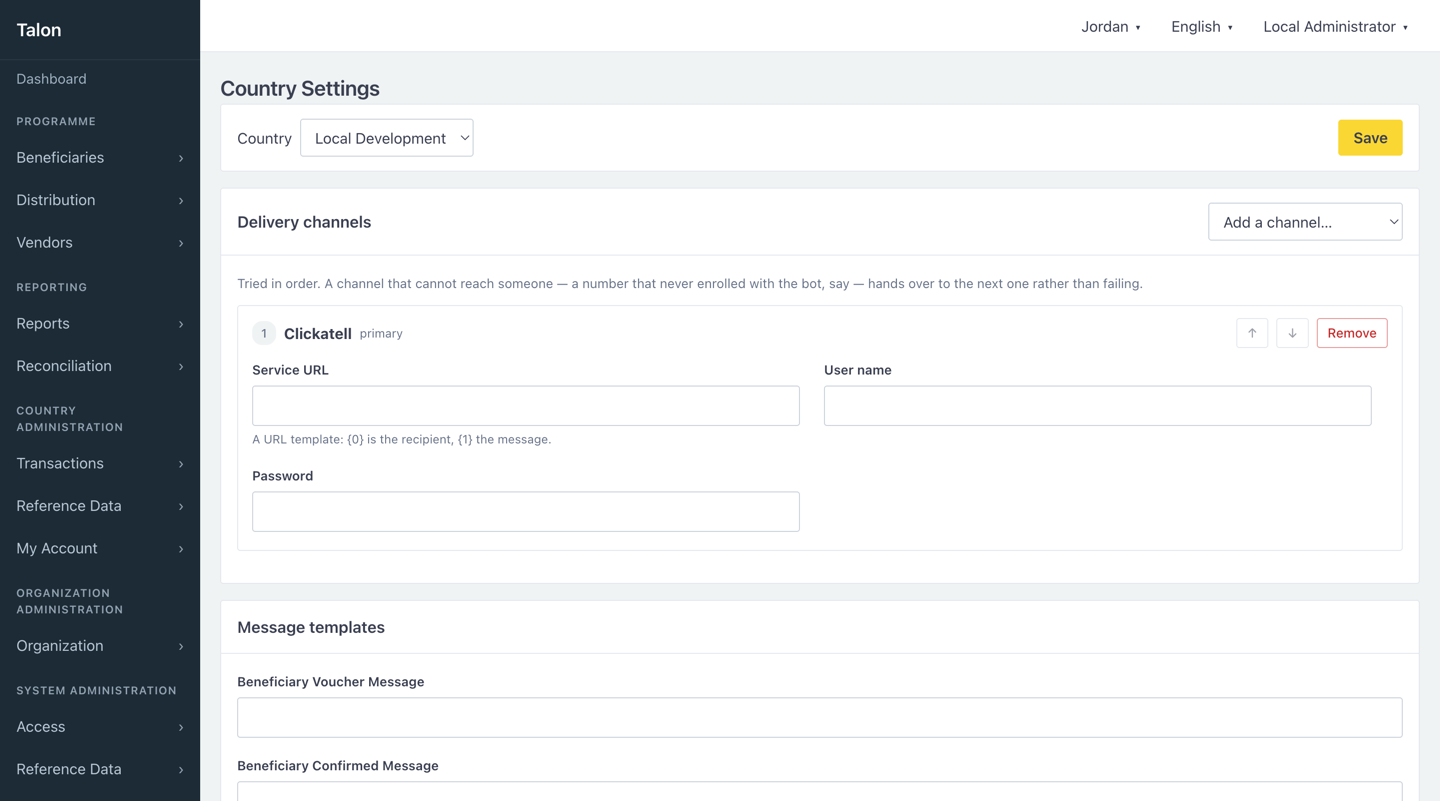
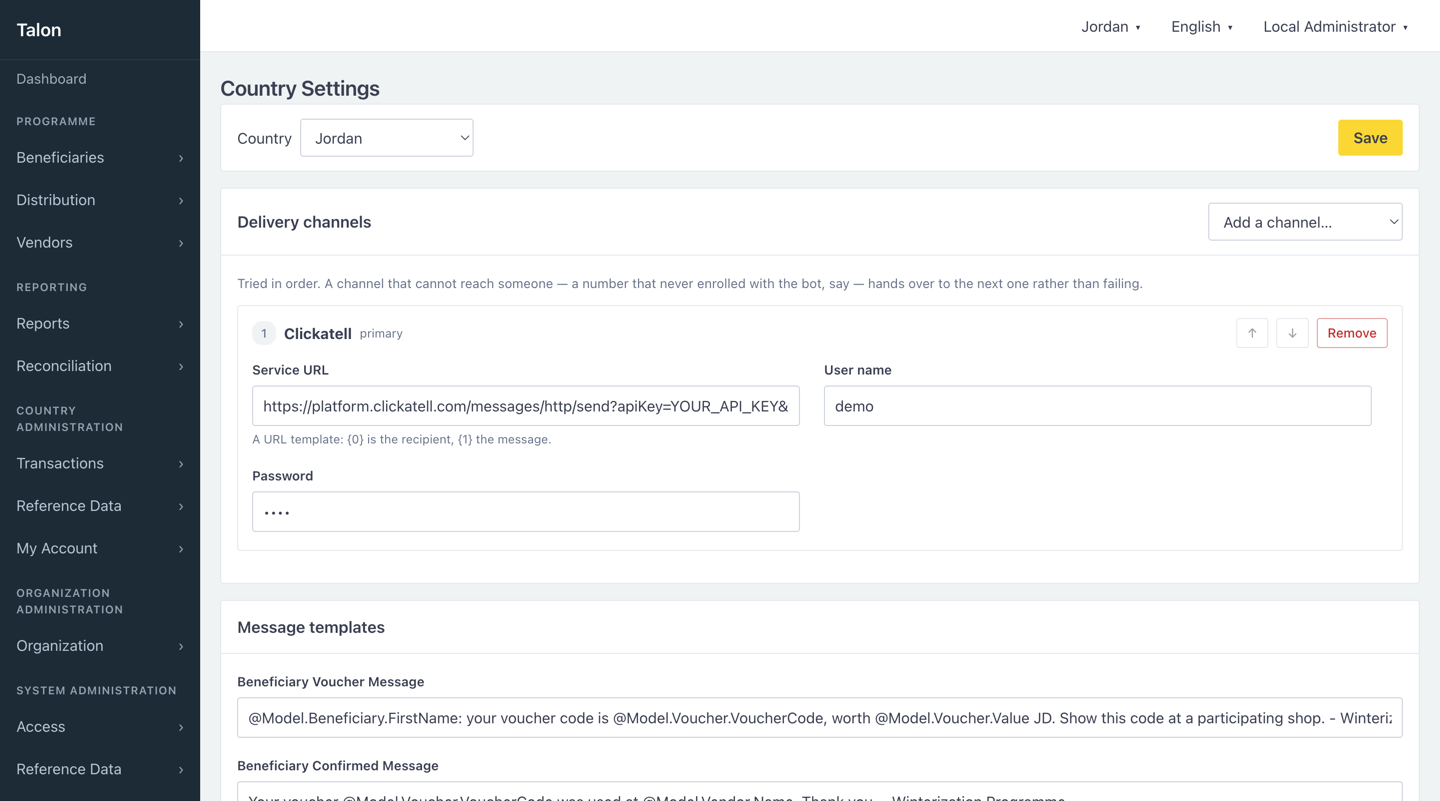
Document how to write message templates, and stop shipping a broken one
The walkthrough's delivery log showed thirteen messages, every one failed with
"The message body is empty" — the state a country is in until somebody writes
the templates, because Talon ships no default wording and nothing says so. The
screenshot documented the product not working.

Both screens are recaptured against the walkthrough data with the templates
filled in and a stub gateway standing in for Clickatell. The vouchers were
re-notified through the product's own ResendSMS endpoint rather than by writing
rows, so the codes in the log are the codes already issued — including the one
the walkthrough text quotes.

The new Messaging section covers the substitution syntax, every template and
when it fires, which records each one carries, a worked set, and the message
length, attribution and data-minimisation points worth deciding before a
distribution rather than after.

The trap it leads with is that an expression naming a field that does not exist
renders as nothing and the message still sends: @Model.Voucher.Code delivers
"Your voucher code is ." to every household and the log records it as sent. The
same goes for reaching through a relationship the workflow did not load. Both
are pinned in MessageTemplateTests, along with the worked examples themselves,
so a documented template that silently drops its voucher code fails the build.

Also corrects the configuration guide, which sent people to Country
Administration for a screen that lives under Organization Administration.

diff --git a/TalonAdmin.Tests/MessageTemplateTests.cs b/TalonAdmin.Tests/MessageTemplateTests.cs
@@ -1,0 +1,120 @@
+using TalonAdmin.Messaging;
+using TalonAdmin.Models.Vouchers;
+
+namespace TalonAdmin.Tests;
+
+/// <summary>
+/// The message-template renderer, and the worked examples the documentation tells people to copy.
+/// </summary>
+/// <remarks>
+/// Templates are the only part of the product an operator authors, they are written once before a
+/// distribution, and a mistake in one is invisible: an expression naming a field that is not there
+/// renders as nothing and the message still sends. So the trap is pinned here deliberately rather
+/// than left as an implementation detail, and the examples in <c>docs/MESSAGING.md</c> are rendered
+/// rather than trusted — a documented template that silently drops its voucher code would be worse
+/// than no documentation at all.
+/// </remarks>
+public class MessageTemplateTests
+{
+    private static object IssueModel() => new
+    {
+        Voucher = new Voucher { VoucherCode = "482913", Value = 50m },
+        Vendor = new Vendor { Name = "Al Mahatta Grocery" },
+        Beneficiary = new Beneficiary { FirstName = "Tariq", LastName = "Jaber" }
+    };
+
+    [Fact]
+    public void The_documented_voucher_message_renders_its_code_and_value()
+    {
+        var body = VoucherNotifications.Render(
+            "@Model.Beneficiary.FirstName: your voucher code is @Model.Voucher.VoucherCode, " +
+            "worth @Model.Voucher.Value. Show this code at a participating shop.",
+            IssueModel());
+
+        Assert.Equal(
+            "Tariq: your voucher code is 482913, worth 50. Show this code at a participating shop.",
+            body);
+    }
+
+    [Fact]
+    public void The_documented_confirmation_names_the_vendor()
+    {
+        var body = VoucherNotifications.Render(
+            "Your voucher @Model.Voucher.VoucherCode was used at @Model.Vendor.Name. Thank you.",
+            IssueModel());
+
+        Assert.Equal("Your voucher 482913 was used at Al Mahatta Grocery. Thank you.", body);
+    }
+
+    [Fact]
+    public void Beneficiary_Name_joins_the_two_parts()
+    {
+        Assert.Equal("Tariq Jaber", VoucherNotifications.Render("@Model.Beneficiary.Name", IssueModel()));
+    }
+
+    [Fact]
+    public void The_parenthesised_form_ends_the_expression_where_the_bracket_does()
+    {
+        // Without the brackets the trailing text would be read as part of the field name.
+        Assert.Equal(
+            "Code 482913.",
+            VoucherNotifications.Render("Code @(Model.Voucher.VoucherCode).", IssueModel()));
+    }
+
+    [Fact]
+    public void A_misspelled_field_renders_as_nothing_rather_than_failing()
+    {
+        // The documented trap: the field is VoucherCode, not Code. Nothing rejects this template,
+        // and every household gets a message with no code in it.
+        Assert.Equal(
+            "Your voucher code is .",
+            VoucherNotifications.Render("Your voucher code is @Model.Voucher.Code.", IssueModel()));
+    }
+
+    [Fact]
+    public void A_relationship_the_workflow_did_not_load_renders_as_nothing()
+    {
+        // Why the documentation says to stay on the record's own fields: lazy loading is off, so a
+        // navigation the query did not Include is simply null by the time a template sees it.
+        Assert.Equal(
+            "Programme: .",
+            VoucherNotifications.Render("Programme: @Model.Voucher.Distribution.Title.", IssueModel()));
+    }
+
+    [Fact]
+    public void A_record_the_message_does_not_carry_renders_as_nothing()
+    {
+        // The shape Invalid Voucher Message is sent with: no voucher, no beneficiary.
+        var model = new { Voucher = new { }, Vendor = new Vendor { Name = "Al Mahatta Grocery" }, Beneficiary = new { }, VoucherCode = "999999" };
+
+        Assert.Equal(
+            "Hello , code  was not recognised.",
+            VoucherNotifications.Render(
+                "Hello @Model.Beneficiary.FirstName, code @Model.Voucher.VoucherCode was not recognised.",
+                model));
+
+        // Which is why that template has to reach for the code the vendor typed instead.
+        Assert.Equal(
+            "Code 999999 was not recognised.",
+            VoucherNotifications.Render("Code @Model.VoucherCode was not recognised.", model));
+    }
+
+    [Theory]
+    [InlineData(null)]
+    [InlineData("")]
+    public void An_unwritten_template_stays_empty_so_the_queue_can_fail_it(string? template)
+    {
+        // An empty body is what OutboundMessageQueue turns into a visible failure, rather than
+        // sending a blank text message.
+        Assert.True(string.IsNullOrEmpty(VoucherNotifications.Render(template, IssueModel())));
+    }
+
+    [Fact]
+    public void Text_around_the_expressions_is_left_alone()
+    {
+        // There is no Razor here: an @ that is not one of these expressions is just a character.
+        Assert.Equal(
+            "Questions? mail help@example.org — 100% free.",
+            VoucherNotifications.Render("Questions? mail help@example.org — 100% free.", IssueModel()));
+    }
+}

diff --git a/docs/MESSAGING.md b/docs/MESSAGING.md
@@ -234,6 +234,121 @@ curl "https://api.telegram.org/bot<TOKEN>/setWebhook" \
 Telegram only calls HTTPS URLs, and it retries an update until it gets a 200, which is why the
 endpoint answers 200 even for updates it ignores.
 
+## Message templates
+
+Talon ships **no default wording**. Every message it sends is a template you write, stored per
+country under **Organization Administration → Country Settings**. Until you write them, a
+distribution enqueues one message per household and fails every one with *"The message body is
+empty"* — the codes are issued and valid, but nobody is told what they are.
+
+Write the templates before the first distribution, not after.
+
+### The substitution syntax
+
+A template is plain text with `@Model.Something.Field` placeholders, which are replaced with values
+from the record the message is about. `@(Model.Something.Field)` works too, and is the form to use
+when the placeholder is followed by a letter or a dot that would otherwise be read as part of the
+name.
+
+```
+Your voucher code is @Model.Voucher.VoucherCode for @Model.Voucher.Value JOD.
+```
+
+This is a deliberately small substitution, not Razor. There are no conditionals, no loops, no
+formatting specifiers and no method calls — only field lookups. Anything else is left in the message
+exactly as you typed it.
+
+{: .caution }
+> **A placeholder that names a field which does not exist renders as nothing, and the message still
+> sends.** `@Model.Voucher.Code` is not a field — the field is `VoucherCode` — so that template
+> delivers "Your voucher code is ." to every household, and the delivery log records it as sent.
+> Nothing warns you. Send yourself a test message and read it before you run a distribution.
+
+### What you can put in each message
+
+| Template | Sent to | When |
+| --- | --- | --- |
+| `Beneficiary Voucher Message` | Beneficiary | A voucher is issued. **This is the one that carries the code** — if you write only one, write this. |
+| `Beneficiary Confirmed Message` | Beneficiary | Their voucher was redeemed |
+| `Vendor Confirmed Message` | Vendor | They redeemed a voucher, and on a repeat of the same code inside the grace window |
+| `Beneficiary Cancelled Voucher Message` | Beneficiary | Their voucher was cancelled |
+| `Vendor Cancelled Message` | Vendor | A voucher they held was cancelled |
+| `Beneficiary Already Used Message` | Beneficiary | A code already redeemed was presented again |
+| `Vendor Already Used Message` | Vendor | As above |
+| `Beneficiary Cannot Accept Message` | Beneficiary | The vendor is not of a type this voucher category allows |
+| `Vendor Cannot Accept Message` | Vendor | As above |
+| `Wrong National Id Message` | Vendor | The identifier given with the code did not match. The interface labels this one **Wrong Personal Identifier Message** — the stored name is older than the rename, and countries have already filled it in under the old one |
+| `Invalid Voucher Message` | Vendor | The code is not a voucher at all |
+
+The fields available are the ones on the records themselves. The useful ones:
+
+| Placeholder | Value |
+| --- | --- |
+| `@Model.Voucher.VoucherCode` | The redemption code |
+| `@Model.Voucher.Value` | The voucher's value, unformatted |
+| `@Model.Beneficiary.Name` | First and last name together |
+| `@Model.Beneficiary.FirstName` | Given name alone — usually the better choice in a text |
+| `@Model.Beneficiary.MobileNumber` | Their number |
+| `@Model.Vendor.Name` | The vendor's trading name |
+| `@Model.Vendor.MobileNumber` | The vendor's number |
+
+Stick to fields on the three records themselves. Following a relationship out of them — the
+distribution a voucher belongs to, the location a beneficiary lives in — reaches for something the
+workflow did not load, and an unloaded relationship renders as nothing in exactly the same silent
+way a misspelling does.
+
+Not every message carries every record, either. `Invalid Voucher Message` and
+`Wrong National Id Message` fire before a beneficiary is known, so `@Model.Beneficiary.…` is empty
+in both, and a template that opens by greeting them produces a message that starts with a blank.
+`Invalid Voucher Message` has no voucher either — by definition, the code matched nothing — so the
+code the vendor actually typed is at `@Model.VoucherCode`, not `@Model.Voucher.VoucherCode`.
+
+### A worked set
+
+Short, unambiguous, and useful to someone holding an old handset:
+
+```
+Beneficiary Voucher Message
+  @Model.Beneficiary.FirstName: your voucher code is @Model.Voucher.VoucherCode,
+  worth @Model.Voucher.Value. Show this code at a participating shop.
+
+Beneficiary Confirmed Message
+  Your voucher @Model.Voucher.VoucherCode was used at @Model.Vendor.Name. Thank you.
+
+Vendor Confirmed Message
+  Accepted: @Model.Voucher.VoucherCode for @Model.Voucher.Value.
+
+Beneficiary Already Used Message
+  Voucher @Model.Voucher.VoucherCode has already been used. Contact the programme office.
+
+Invalid Voucher Message
+  That code was not recognised. Please check it and try again.
+```
+
+### Things worth getting right
+
+**Keep it inside one SMS.** A GSM-7 message is 160 characters; a message containing any Arabic
+character is UCS-2 and drops to **70**. Longer messages are split, and every gateway charges per
+part. Since the placeholder expands at send time, a template that looks short can cross the boundary
+once a long name is substituted — check with your longest name, not your shortest.
+
+**Say who is writing.** A code arriving from an unknown number is indistinguishable from a scam.
+Name the programme or organisation in the message that carries the code.
+
+**Put in only what the message needs.** These arrive on shared and borrowed handsets, and a text
+message sits in the inbox afterwards. The code and the amount are needed; a personal identifier, a
+full name, a location or a household size generally is not. Never place `@Model.Beneficiary.PIN` or
+`@Model.Vendor.Password` in a template — they are on the record, so they will render.
+
+**Write them in the language people read.** Templates are per country and are stored as you type
+them, so they can be written in any script — this is separate from the interface language, which
+only affects staff screens. Right-to-left text is stored and delivered unchanged.
+
+**An organisation can override a country's wording.** If the same country is run by more than one
+organisation, a template set on the organisation's own country record wins over the country-wide
+one; blank there falls back. That is the mechanism to use when two programmes in one country need to
+identify themselves differently.
+
 ## Inbound
 
 Redeeming a voucher is a message going the other way, and it works from any channel.

diff --git a/docs/WALKTHROUGH.md b/docs/WALKTHROUGH.md
@@ -148,10 +148,16 @@ the Telegram bot go through the same rules. How messages travel is a per-country
 country holds an ordered chain rather than a single channel, so it can reach enrolled recipients on a
 free channel and text everyone else.
 
-![Delivery channels](screenshots/16-country-settings.png)
+The same screen holds the wording of every message Talon sends. **Talon ships no default wording**,
+so this has to be filled in before the first distribution — vouchers issued against empty templates
+are still valid, but nobody is told their code. Writing them is covered in
+[Messaging](MESSAGING.html#message-templates).
 
-Five households redeemed their food voucher at Al Salam Supermarket. Every message in and out is
-logged, which is what makes a disputed redemption possible to investigate.
+![Delivery channels and message templates](screenshots/16-country-settings.png)
+
+Every message Talon sends is recorded with its recipient, its state and the number of attempts it
+took — here, the 24 voucher codes going out to the twelve households. That record is what makes a
+disputed redemption possible to investigate, and a delivery that never arrived possible to notice.
 
 ![Message log](screenshots/17-message-log.png)
 

diff --git a/docs/configuration.md b/docs/configuration.md
@@ -138,7 +138,7 @@ the first entry of `X-Forwarded-For` when that header is present.
 ## Messaging
 
 How the outbound queue behaves. Channel credentials are **not** here — they are per-country data,
-set in the interface under **Country Administration → Country Settings**, because a deployment can
+set in the interface under **Organization Administration → Country Settings**, because a deployment can
 run several countries on different gateways. See [Messaging](MESSAGING.html).
 
 | Setting | Default | Effect |
